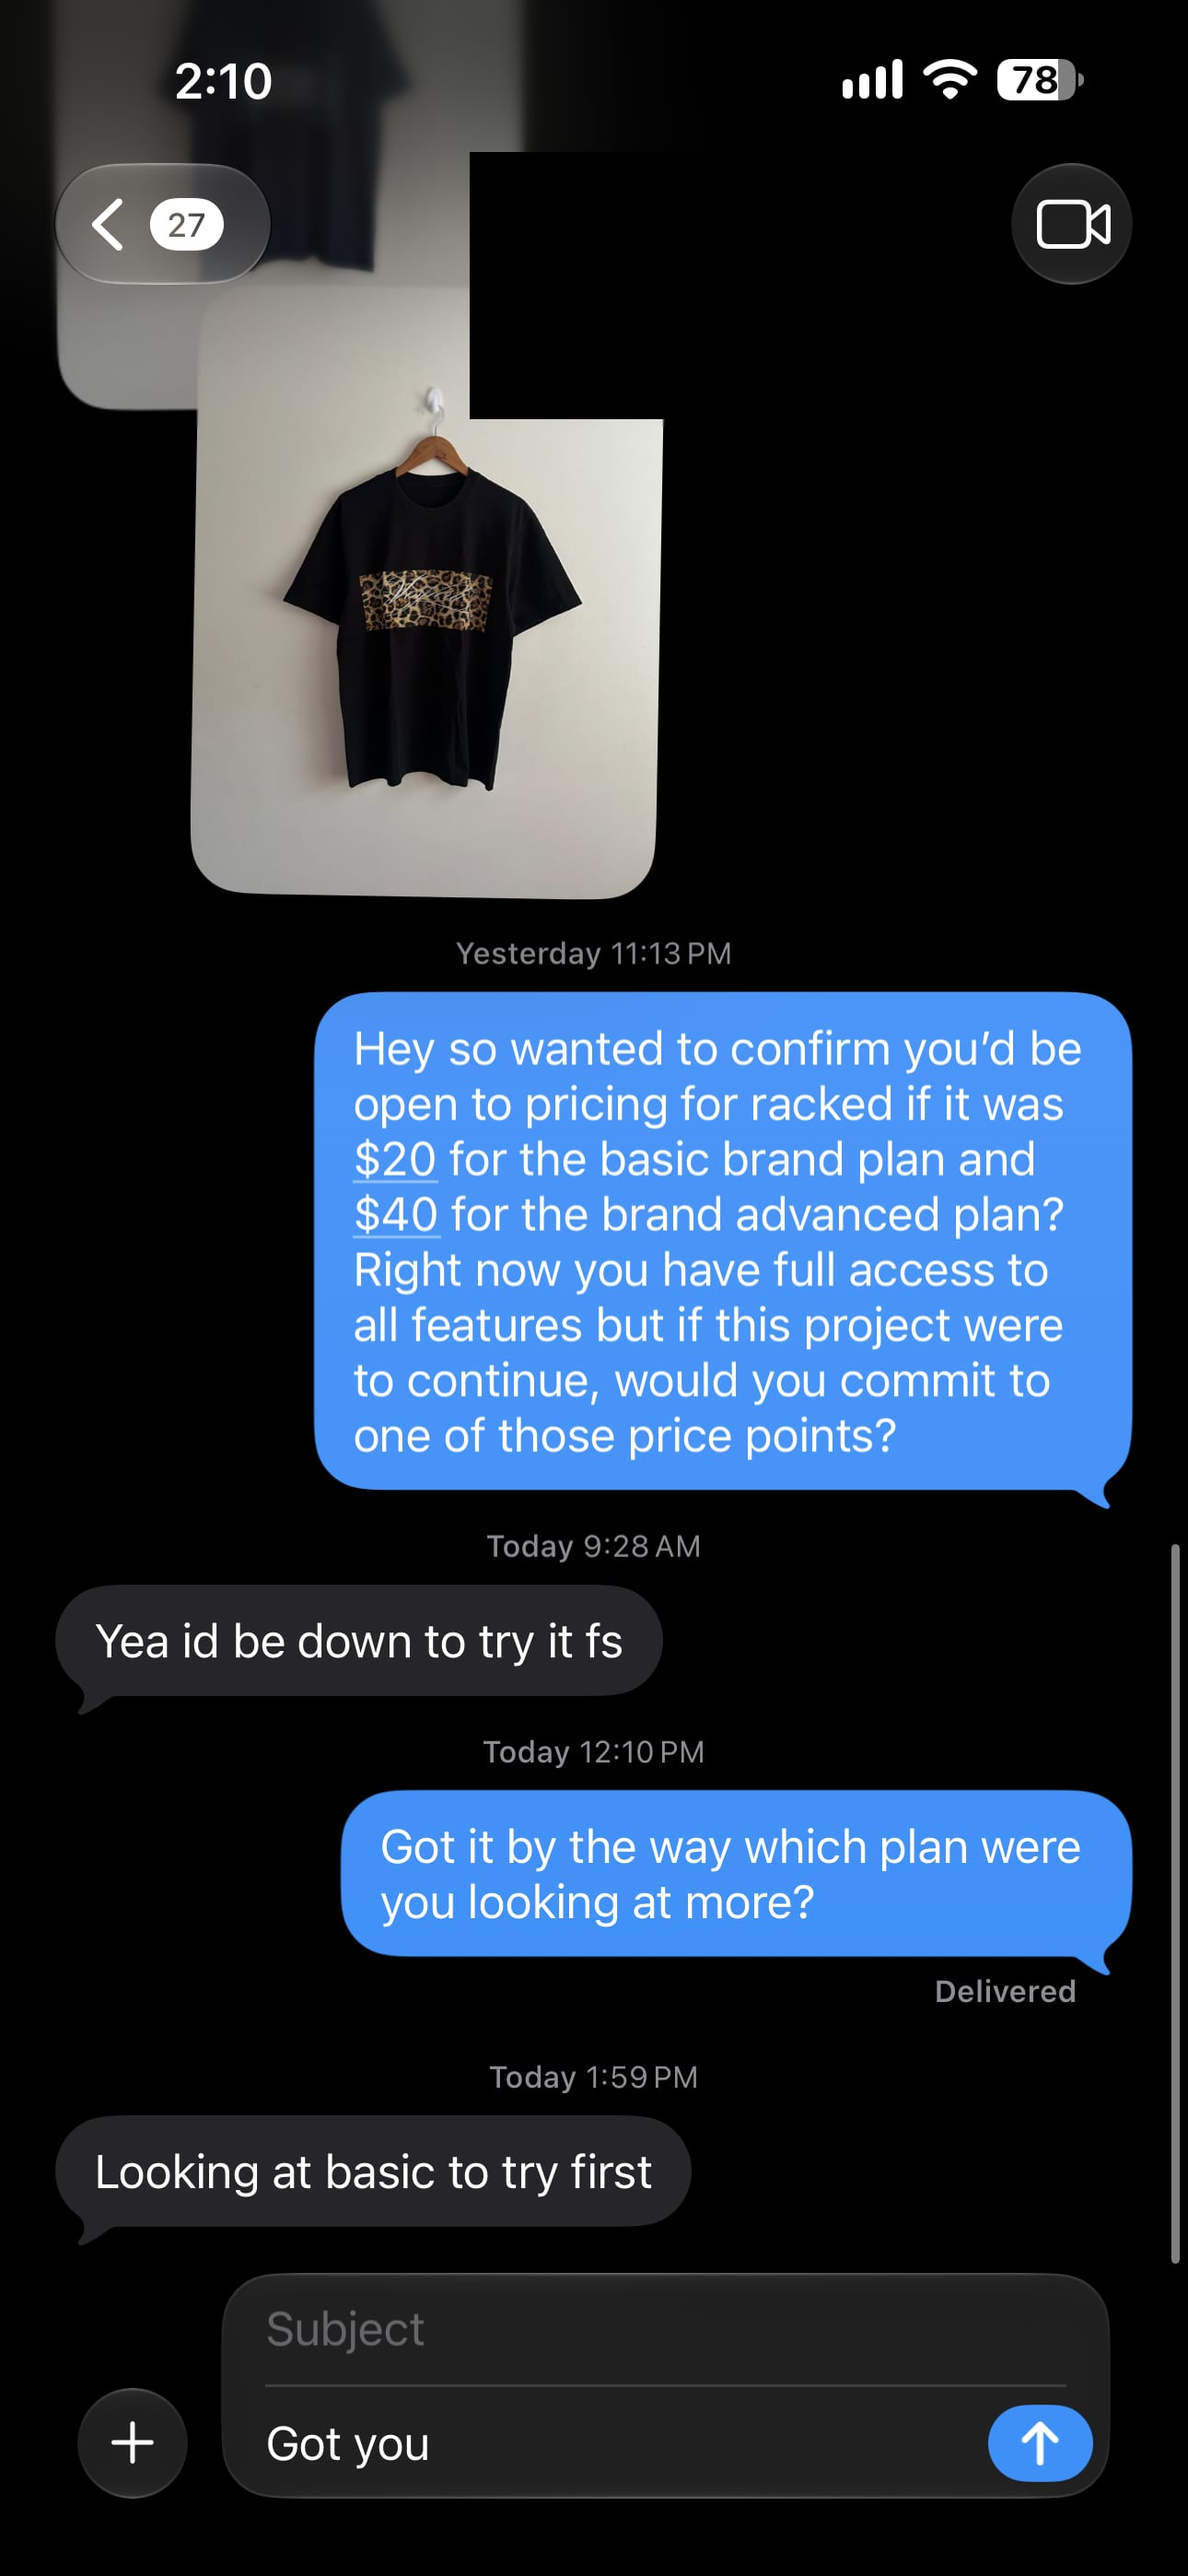
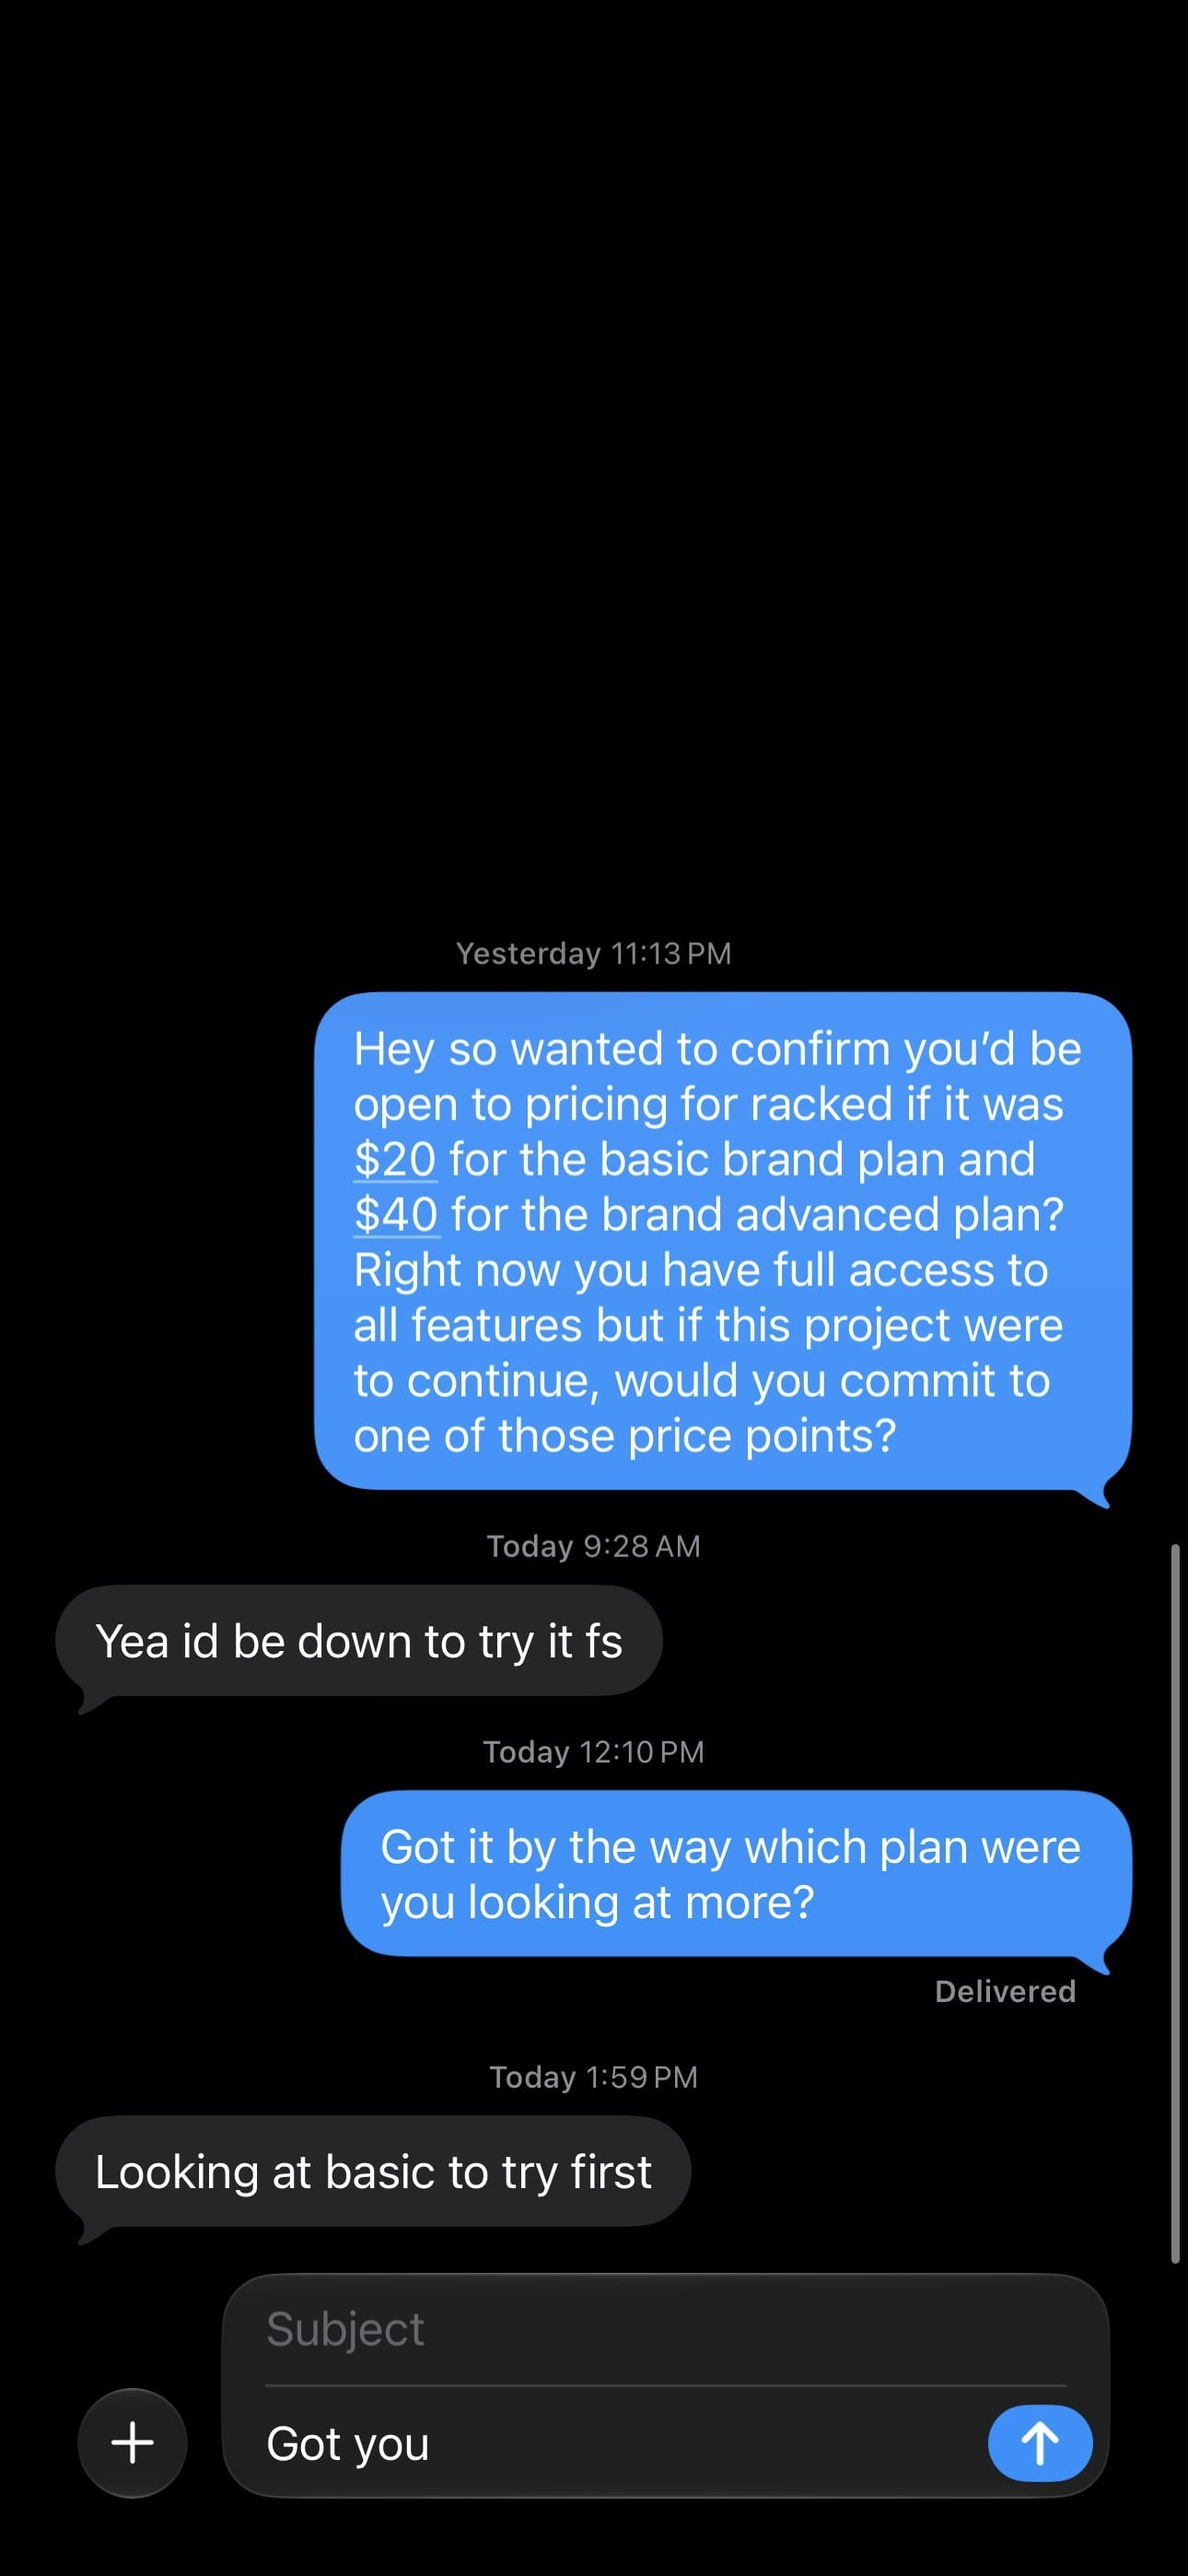
Redact the vversatile.usa evidence image (status bar, unread badge, product photo)
Claude-Session: https://claude.ai/code/session_014BCnoLtGvwZTYZL5tM9K2q

diff --git a/docs/pilot-evidence/README.md b/docs/pilot-evidence/README.md
@@ -11,4 +11,4 @@ Current status: both brands agreed to join the pilot by phone.
 
 The prices are quoted as written in the messages: $20 and $40. Neither filed message says "a month", so this page does not say the brand agreed to a monthly price. Nothing is billed during the pilot.
 
-vversatile.usa accepted in writing on 2026-11-05 (an iMessage thread with the brand's owner; the contact's name and photo are blacked out, so the image itself does not show the account name: the owner attests it is vversatile.usa): [vversatile-pricing-2026-11-05.jpg](vversatile-pricing-2026-11-05.jpg). Asked whether it would commit to $20 for the basic brand plan or $40 for the brand advanced plan, noting it currently has full access to every feature during the pilot, it replied "Yea id be down to try it fs" and then "Looking at basic to try first". That is a willingness to try the Basic plan, not a signed commitment. The owner also reports a follow-up phone call in which the brand agreed more firmly; there is no recording or written record of the call, so the written thread above remains the filed evidence. Nothing is billed during the pilot.
+vversatile.usa accepted in writing on 2026-11-05 (an iMessage thread with the brand's owner; the contact's name and photo, the phone's status bar, the unread-message badge and the brand's product photo are blacked out, so the image itself does not show the account name: the owner attests it is vversatile.usa): [vversatile-pricing-2026-11-05.jpg](vversatile-pricing-2026-11-05.jpg). Asked whether it would commit to $20 for the basic brand plan or $40 for the brand advanced plan, noting it currently has full access to every feature during the pilot, it replied "Yea id be down to try it fs" and then "Looking at basic to try first". That is a willingness to try the Basic plan, not a signed commitment. The owner also reports a follow-up phone call in which the brand agreed more firmly; there is no recording or written record of the call, so the written thread above remains the filed evidence. Nothing is billed during the pilot.
